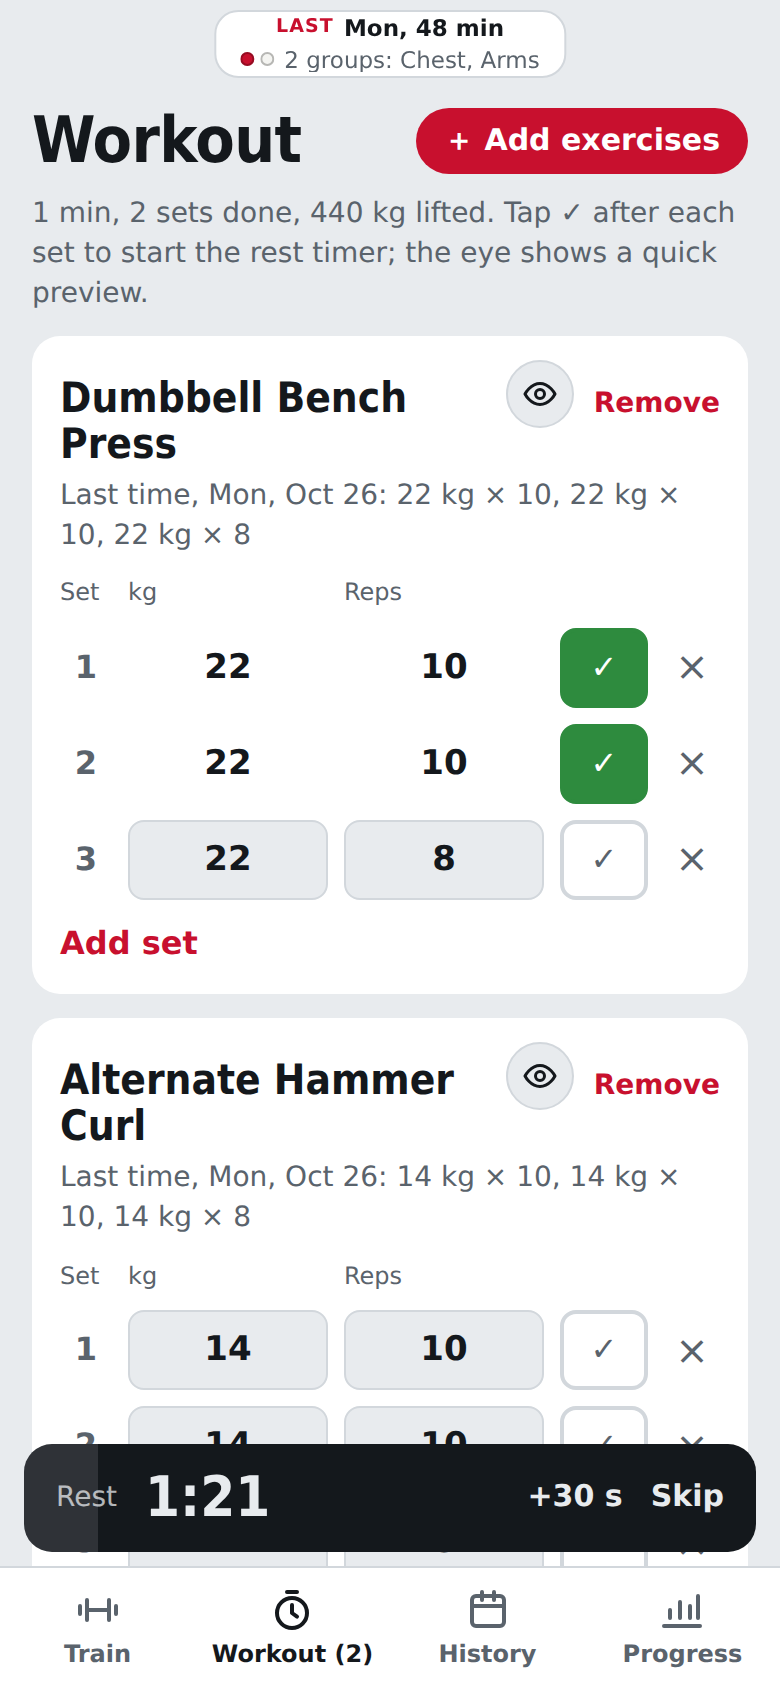
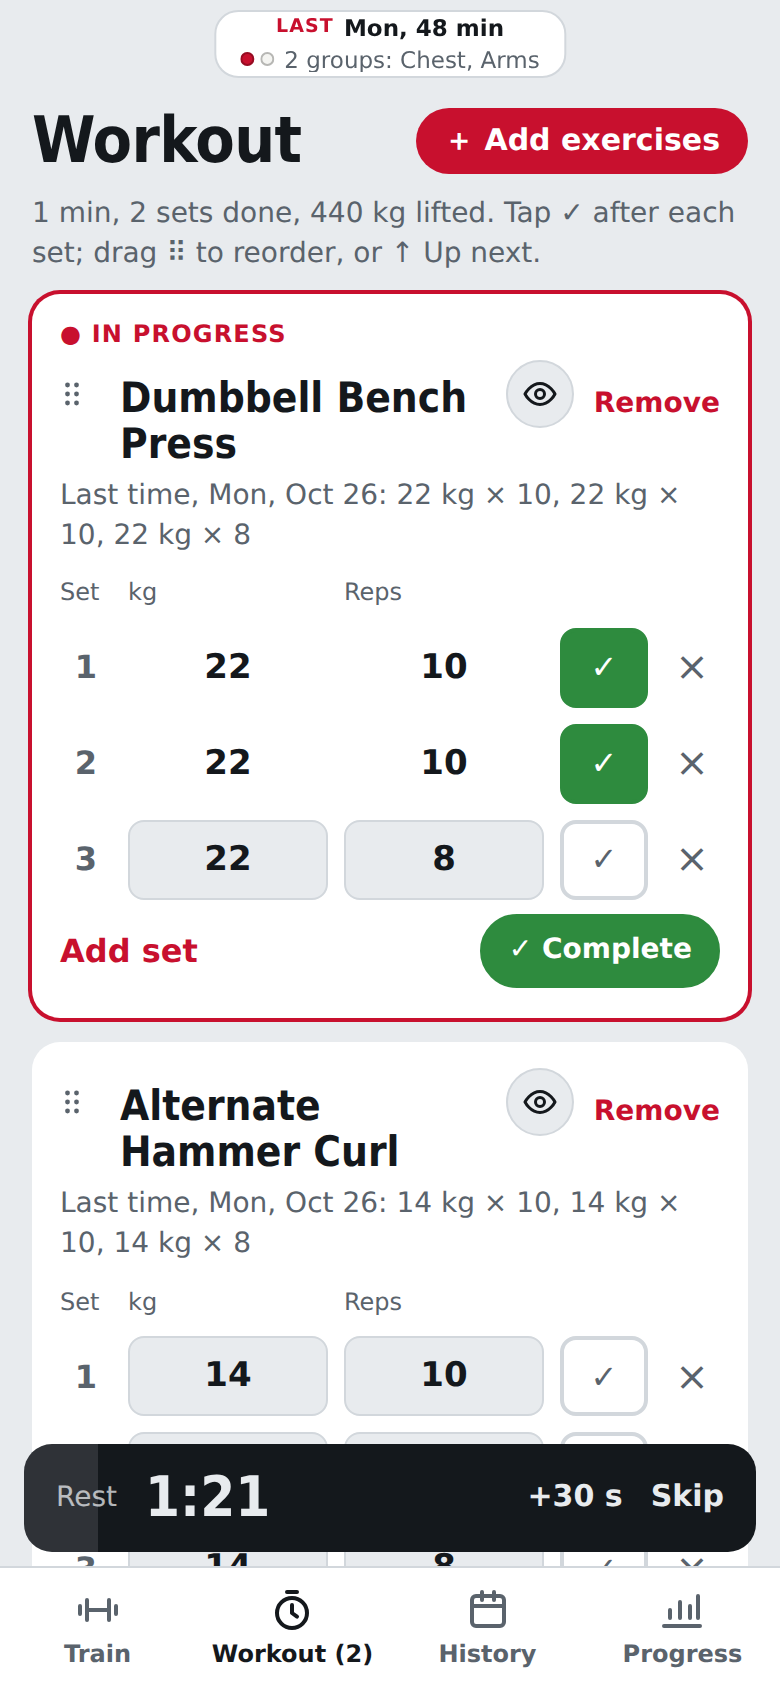
Release 1.9.0: drag-and-drop exercise order, Up next, Complete folds an exercise into one line and focuses the next

diff --git a/Go2FGym.js b/Go2FGym.js
@@ -28,7 +28,7 @@ const COACH = { autoAnalyze: true, autoStrava: true };
 
 // ---------------------------------------------------------------- version
 // This build's version. When releasing, bump it and add a matching entry to releases.json.
-const VERSION = '1.8.0';
+const VERSION = '1.9.0';
 const APP_ID = 'go2fgym';   // unique per app, never changes
 const REPO_RAW = 'https://raw.githubusercontent.com/gadominas/Go2FGym/main/';
 const SCRIPT_FILE = 'Go2FGym.js';   // the script's file name in the repository
@@ -1017,7 +1017,7 @@ function webApp() {
     imgs: {}, pending: new Set(), queue: new Set(),
     rest: { end: 0, total: 0, beeped: true },
     openSession: null, armed: null, sync: null,
-    histView: "calendar", cal: null, stravaMode: {},
+    histView: "calendar", cal: null, stravaMode: {}, focusId: null,
     consent: !!(BOOT.consent && BOOT.consent.version === CFG.disclaimerVersion),
     showDisclaimer: false,
     ai: {
@@ -2000,6 +2000,107 @@ function webApp() {
         : `<button class="primary" data-a="add" data-v="${esc(e.id)}">Add to workout</button>`}</div>`;
   }
 
+  // ------------------------------------------------ workout order, completing exercises, drag and drop
+  const firstOpen = (list) => { const i = list.findIndex((x) => !x.completed); return i < 0 ? list.length : i; };
+  // Where "Up next" puts an exercise: right after the exercises already started, or first among the open ones.
+  function upNextIndex(ei) {
+    const list = S.session.entries.filter((_, i) => i !== ei);
+    let at = -1;
+    list.forEach((x, i) => { if (!x.completed && x.sets.some((y) => y.done)) at = i; });
+    return at >= 0 ? at + 1 : firstOpen(list);
+  }
+  function moveEntry(from, to) {
+    const list = S.session.entries;
+    const [m] = list.splice(from, 1);
+    list.splice(Math.max(0, Math.min(list.length, to)), 0, m);
+  }
+  function entrySummary(en) {
+    const done = en.sets.filter((x) => x.done && x.r > 0);
+    const reps = done.reduce((n, x) => n + x.r, 0);
+    const kg = done.reduce((n, x) => n + (x.w ? x.w * x.r : 0), 0);
+    const mins = en.startedAt && en.doneAt ? Math.max(1, Math.round((en.doneAt - en.startedAt) / 60000)) : null;
+    return [kg ? `${fmtNum(kg)} ${UNIT}` : "", `${reps} reps`, mins ? `${mins} min` : ""].filter(Boolean).join(" · ");
+  }
+  function scrollToFocus() {
+    const list = S.session ? S.session.entries : [];
+    const i = list.findIndex((x) => x.id === S.focusId);
+    const el = i >= 0 ? document.querySelector(`#app .entry[data-ei="${i}"]`) : null;
+    if (!el) return;
+    const bar = document.querySelector("#app .bar");
+    const top = el.getBoundingClientRect().top + window.scrollY - (bar ? bar.getBoundingClientRect().bottom : 60) - 10;
+    window.scrollTo({ top: Math.max(0, top), behavior: "smooth" });
+  }
+  function completeEntry(ei) {
+    const list = S.session.entries;
+    const en = list[ei];
+    const now = Date.now();
+    en.sets.forEach((x) => { if (x.r > 0 && !x.done) { x.done = true; x.t = x.t || now; } });
+    if (!en.sets.some((x) => x.done)) return toast("Log at least one set first.", true);
+    en.completed = true;
+    en.doneAt = now;
+    en.startedAt = en.startedAt || Math.min(...en.sets.filter((x) => x.t).map((x) => x.t), now);
+    moveEntry(ei, firstOpen(list.filter((_, i) => i !== ei)));   // completed ones collect at the top
+    const next = list.find((x) => !x.completed && x.sets.some((y) => y.done)) || list.find((x) => !x.completed);
+    S.focusId = next ? next.id : null;
+    saveDraft();
+    render();
+    if (next) setTimeout(scrollToFocus, 30);
+    toast(next ? `${en.name} done. Next: ${next.name}` : `${en.name} done. That's every exercise!`);
+  }
+
+  // Drag and drop by the ⠿ handle (pointer events, so it works with touch and mouse).
+  let drag = null;
+  function dragTarget(center) {
+    let n = 0;
+    drag.rects.forEach((r, i) => { if (i !== drag.from && r.top + r.h / 2 < center) n++; });
+    return n;
+  }
+  document.addEventListener("pointerdown", (ev) => {
+    const h = ev.target.closest && ev.target.closest(".drag");
+    if (!h || !S.session || S.tab !== "workout") return;
+    const el = h.closest(".entry");
+    const els = [...document.querySelectorAll("#app .entry")];
+    ev.preventDefault();
+    drag = {
+      el, els, from: els.indexOf(el), startY: ev.clientY, scroll0: window.scrollY, pid: ev.pointerId, to: els.indexOf(el),
+      rects: els.map((e) => { const r = e.getBoundingClientRect(); return { top: r.top + window.scrollY, h: r.height }; }),
+    };
+    drag.gap = drag.rects.length > 1 ? Math.max(0, drag.rects[1].top - drag.rects[0].top - drag.rects[0].h) : 12;
+    el.classList.add("dragging");
+    document.body.classList.add("is-dragging");
+    try { h.setPointerCapture(ev.pointerId); } catch (e) { /* not supported */ }
+  });
+  document.addEventListener("pointermove", (ev) => {
+    if (!drag || ev.pointerId !== drag.pid) return;
+    ev.preventDefault();
+    if (ev.clientY < 110) window.scrollBy(0, -14);
+    else if (ev.clientY > window.innerHeight - 130) window.scrollBy(0, 14);
+    const dy = ev.clientY - drag.startY + (window.scrollY - drag.scroll0);
+    drag.el.style.transform = `translateY(${dy}px)`;
+    const me = drag.rects[drag.from];
+    drag.to = dragTarget(me.top + me.h / 2 + dy);
+    const shift = me.h + drag.gap;
+    drag.els.forEach((e, i) => {
+      if (i === drag.from) return;
+      const j = i < drag.from ? i : i - 1;   // index among the others
+      let y = 0;
+      if (i < drag.from && j >= drag.to) y = shift;
+      if (i > drag.from && j < drag.to) y = -shift;
+      e.style.transform = y ? `translateY(${y}px)` : "";
+    });
+  });
+  function endDrag(ev) {
+    if (!drag || (ev && ev.pointerId !== drag.pid)) return;
+    const { from, to, els } = drag;
+    els.forEach((e) => { e.style.transform = ""; e.classList.remove("dragging"); });
+    document.body.classList.remove("is-dragging");
+    drag = null;
+    if (to !== from) { moveEntry(from, to); saveDraft(); }
+    render();
+  }
+  document.addEventListener("pointerup", endDrag);
+  document.addEventListener("pointercancel", endDrag);
+
   function renderWorkout() {
     const s = S.session;
     if (!s || !s.entries.length)
@@ -2009,25 +2110,40 @@ function webApp() {
         ${S.ai.hasKey && S.history.sessions.length ? `<button class="secondary ai" data-a="build-next-h">✨ Build next workout</button>` : ""}</div>`;
     const t = volume(s.entries.map((en) => ({ sets: en.sets.filter((x) => x.done) })));
     const entries = s.entries.map((en, ei) => {
+      const grip = `<button class="drag" data-ei="${ei}" aria-label="Drag ${esc(en.name)} to reorder"><svg viewBox="0 0 24 24" aria-hidden="true"><circle cx="9" cy="6" r="1.6"/><circle cx="15" cy="6" r="1.6"/><circle cx="9" cy="12" r="1.6"/><circle cx="15" cy="12" r="1.6"/><circle cx="9" cy="18" r="1.6"/><circle cx="15" cy="18" r="1.6"/></svg></button>`;
+      if (en.completed) {
+        const sum = entrySummary(en);
+        const g = groupOf(en.id);
+        return `<section class="entry done-row" data-ei="${ei}">${grip}
+          <button class="done-main" data-a="reopen" data-v="${ei}" aria-label="${esc(en.name)}, completed. Tap to reopen.">
+          <span class="ck">✓</span><b>${esc(en.name)}</b>
+          <span class="dl-meta">${g ? `<i class="dot pl-${g.plate}" title="${g.label}"></i>` : ""}${esc(sum)}${g ? ` · ${g.label}` : ""}</span></button></section>`;
+      }
       const last = lastSets(en.id);
+      const started = en.sets.some((x) => x.done);
+      const focus = S.focusId === en.id;
+      const nextIdx = upNextIndex(ei);
       const rows = en.sets.map((x, si) => `<div class="set-row${x.done ? " done" : ""}">
           <span class="n">${si + 1}</span>
           <input data-in="w" data-ei="${ei}" data-si="${si}" inputmode="decimal" placeholder="Body" value="${x.w == null ? "" : esc(x.w)}" aria-label="Set ${si + 1} weight in ${UNIT}">
           <input data-in="r" data-ei="${ei}" data-si="${si}" inputmode="numeric" placeholder="0" value="${x.r == null ? "" : esc(x.r)}" aria-label="Set ${si + 1} reps">
           <button class="tick" data-a="done" data-v="${ei}:${si}" aria-label="${x.done ? "Mark set as not done" : "Mark set as done"}">✓</button>
           <button class="x" data-a="rm-set" data-v="${ei}:${si}" aria-label="Remove set ${si + 1}">×</button></div>`).join("");
-      return `<section class="entry">
-        <div class="entry-head"><button class="entry-name" data-a="open" data-v="${esc(en.id)}">${esc(en.name)}</button>
+      return `<section class="entry${focus ? " focus" : ""}" data-ei="${ei}">
+        ${focus || started ? `<p class="entry-status">${started ? "● In progress" : "▶ Up now"}</p>` : ""}
+        <div class="entry-head">${grip}<button class="entry-name" data-a="open" data-v="${esc(en.id)}">${esc(en.name)}</button>
         <button class="pv-btn" data-a="preview" data-v="${esc(en.id)}" aria-label="Preview ${esc(en.name)}"><svg viewBox="0 0 24 24" aria-hidden="true"><path d="M2 12s3.6-7 10-7 10 7 10 7-3.6 7-10 7S2 12 2 12z"/><circle cx="12" cy="12" r="3"/></svg></button>
         <button class="link small${S.armed === "rm" + ei ? " armed" : ""}" data-a="rm-entry" data-v="${ei}">${S.armed === "rm" + ei ? "Tap to remove" : "Remove"}</button></div>
         ${en.note ? `<p class="small coach-note">✨ ${esc(en.note)}${en.rest ? ` Rest ${en.rest} s.` : ""}</p>` : ""}
         ${last ? `<p class="muted small">Last time, ${esc(day(last.date))}: ${esc(fmtSets(last.sets))}</p>` : `<p class="muted small">First time logging this one.</p>`}
         <div class="set-row head"><span>Set</span><span>${UNIT}</span><span>Reps</span><span></span><span></span></div>
         ${rows}
-        <button class="link" data-a="add-set" data-v="${ei}">Add set</button></section>`;
+        <div class="entry-actions"><button class="link" data-a="add-set" data-v="${ei}">Add set</button>
+          ${nextIdx !== ei && !started ? `<button class="chip" data-a="up-next" data-v="${ei}">↑ Up next</button>` : ""}
+          <button class="chip complete-btn" data-a="complete" data-v="${ei}">✓ Complete</button></div></section>`;
     }).join("");
     return `<header class="bar"><h1 class="title">${esc(s.title || "Workout")}</h1><button class="hbtn" data-a="add-ex">＋ Add exercises</button></header>
-      <p class="muted small" id="totals"><span id="elapsed">${elapsed(s.start)}</span>, ${plural(t.n, "set")} done${t.v ? `, ${fmtNum(t.v)} ${UNIT} lifted` : ""}. Tap ✓ after each set to start the rest timer; the eye shows a quick preview.</p>
+      <p class="muted small" id="totals"><span id="elapsed">${elapsed(s.start)}</span>, ${plural(t.n, "set")} done${t.v ? `, ${fmtNum(t.v)} ${UNIT} lifted` : ""}${s.entries.some((x) => x.completed) ? `, ${s.entries.filter((x) => x.completed).length} of ${s.entries.length} exercises complete` : ""}. Tap ✓ after each set; drag ⠿ to reorder, or ↑ Up next.</p>
       ${entries}
       <button class="secondary" data-a="add-ex">＋ Add exercises</button>
       <button class="primary${S.armed === "finish" ? " armed" : ""}" data-a="finish">${S.armed === "finish" ? "Tap again to save" : "Finish workout"}</button>
@@ -2584,11 +2700,35 @@ function webApp() {
       const set = en.sets[si];
       if (!set.done && !(set.r > 0)) return toast("Enter reps first.", true);
       set.done = !set.done;
-      if (set.done) startRest(en.rest);
+      if (set.done) {
+        set.t = Date.now();
+        en.startedAt = en.startedAt || set.t;
+        S.focusId = en.id;
+        startRest(en.rest);
+      }
       saveDraft();
       render();
     },
     "rm-entry": (v) => arm("rm" + v, () => { S.session.entries.splice(+v, 1); saveDraft(); render(); }),
+    "up-next": (v) => {
+      const ei = +v;
+      const en = S.session.entries[ei];
+      moveEntry(ei, upNextIndex(ei));
+      S.focusId = en.id;
+      saveDraft();
+      render();
+      setTimeout(scrollToFocus, 30);
+      toast(`${en.name} is up next`);
+    },
+    complete: (v) => completeEntry(+v),
+    reopen: (v) => {
+      const en = S.session.entries[+v];
+      en.completed = false;
+      delete en.doneAt;
+      S.focusId = en.id;
+      saveDraft();
+      render();
+    },
     finish: () => arm("finish", finish),
     discard: () => arm("discard", () => {
       S.session = null;
@@ -2875,6 +3015,22 @@ p{margin:0 0 10px}
 .pv-btn{flex:none;width:34px;height:34px;border-radius:17px;display:grid;place-items:center;border:1px solid var(--line);background:var(--bg);color:var(--ink)}
 .pv-btn svg{width:18px;height:18px;fill:none;stroke:currentColor;stroke-width:2;stroke-linecap:round;stroke-linejoin:round}
 .entry-head{align-items:center}.entry-head .entry-name{flex:1;text-align:left}
+.drag{flex:none;width:28px;height:36px;margin-left:-8px;display:grid;place-items:center;color:var(--muted);touch-action:none;-webkit-user-select:none;user-select:none;cursor:grab}
+.drag svg{width:18px;height:18px;fill:currentColor}
+.entry{transition:transform .18s ease,box-shadow .18s ease}
+.entry.dragging{transition:none;position:relative;z-index:30;box-shadow:0 12px 30px rgba(0,0,0,.3)}
+body.is-dragging{-webkit-user-select:none;user-select:none}
+.entry.focus{box-shadow:0 0 0 2px var(--accent)}
+.entry-status{margin:0 0 2px;font-size:calc(12px * var(--ts));font-weight:800;color:var(--accent);text-transform:uppercase;letter-spacing:.05em}
+.entry-actions{display:flex;align-items:center;gap:8px;flex-wrap:wrap;padding:4px 0 8px}
+.entry-actions .link{margin-right:auto}
+.entry-actions .chip.complete-btn{background:var(--done);border-color:var(--done);color:#fff;font-weight:700}
+.done-row{display:flex;align-items:center;gap:4px;padding:6px 10px 6px 14px;opacity:.92}
+.done-main{flex:1;min-width:0;display:flex;align-items:center;gap:8px;padding:6px 0;text-align:left;white-space:nowrap;overflow:hidden}
+.done-main .ck{flex:none;width:22px;height:22px;border-radius:11px;background:var(--done);color:#fff;display:grid;place-items:center;font-size:13px;font-weight:800}
+.done-main b{flex:0 1 auto;max-width:32%;overflow:hidden;text-overflow:ellipsis;font-size:calc(15px * var(--ts))}
+.dl-meta{flex:1;min-width:0;display:block;white-space:nowrap;overflow:hidden;text-overflow:ellipsis;color:var(--muted);font-size:calc(13px * var(--ts))}
+.dl-meta .dot{display:inline-block;vertical-align:-1px;margin-right:4px}
 .plan-ex.pv-row{grid-template-columns:64px 1fr 34px}
 #pv{position:fixed;inset:0;z-index:55;background:rgba(0,0,0,.55);display:flex;align-items:center;justify-content:center;padding:18px}
 .pv-card{width:100%;max-width:440px;background:var(--surface);color:var(--ink);border-radius:18px;padding:14px 14px 10px;box-shadow:0 12px 40px rgba(0,0,0,.35);overflow:hidden}

diff --git a/README.md b/README.md
@@ -40,6 +40,8 @@ Gym apps assume a gym. At home you have a bench, a barbell, some dumbbells and t
 | 🖼 **See it done** | A start-to-end photo demo, numbered steps, and the muscles each exercise works. |
 | 🏠 **Made for home** | 466 exercises for bodyweight, dumbbells, barbell and resistance bands. Own kettlebells, an E-Z bar or a medicine ball? Switch them on in **Settings › Library**. |
 | ✍ **Fast logging** | Weight and reps are prefilled from last time. Change what's different, tap ✓, done. |
+| ⠿ **Your order** | Drag exercises by the ⠿ handle, or tap **↑ Up next** to put one right after the ones you've started (great for supersets). |
+| ✅ **Complete and move on** | **✓ Complete** folds an exercise into one line with kg lifted, reps, minutes and muscle group, then highlights and scrolls to the next one. |
 | ＋ **Add as you go** | **＋ Add exercises** in the workout header opens the list for that workout's muscles; **✓ Workout** takes you straight back. |
 | 👁 **Quick preview** | The eye on each exercise in your workout shows it moving in a pop-up, with **Open exercise** for the full page. It closes itself after 10 seconds. |
 | ⏱ **Rest timer** | Ticking a set starts a countdown with a beep (90 s, adjustable in Settings). Add 30 s or skip. |
@@ -97,6 +99,7 @@ Gym apps assume a gym. At home you have a bench, a barbell, some dumbbells and t
 
 <p align="center">
   <img src="docs/screenshots/04-steps-and-progress.png" width="180" alt="Steps, last time and progress chart">
+  <img src="docs/screenshots/18-complete-and-reorder.png" width="180" alt="Completed exercise folded into one line, next exercise highlighted">
 </p>
 
 ## Setting up the AI coach
@@ -131,6 +134,8 @@ Every version is listed in the **[changelog](CHANGELOG.md)**. The version you ha
 | See how it's done | Tap an exercise. **Start**, **Play** and **End** control the demo. |
 | Add to today's workout | Tap **+** in the list, or **Add to workout** on the exercise |
 | Add more during a workout | **＋ Add exercises** at the top of the Workout tab, tap **+**, then **✓ Workout** at the top to go back |
+| Change the order of exercises | Drag the **⠿** handle, or tap **↑ Up next** on the one you want to do next |
+| Finish an exercise | **✓ Complete**; tap its one-line summary to reopen it |
 | Quickly see how an exercise is done | Tap the **eye** next to it in your workout or a built plan; **Open exercise** for the full page |
 | Log a set | Check weight and reps, then tap **✓**. Leave weight empty for bodyweight. |
 | Add or remove a set | **Add set** copies the previous one; **×** removes a set |

diff --git a/CHANGELOG.md b/CHANGELOG.md
@@ -2,6 +2,21 @@
 
 All notable changes to Go2FGym. Generated from `releases.json`; edit that file, not this one.
 
+## 1.9.0 (2026-10-29): Train in your own order
+
+- ⠿ **Drag to reorder**: Hold the ⠿ handle on any exercise and drag it where you want it.
+- ↑ **Up next**: One tap moves an exercise right after the ones you've started, ideal for supersets.
+- ✅ **Complete and move on**: Complete folds an exercise into one line with kg, reps and time, and jumps to the next.
+
+**Changes**
+
+- Drag and drop exercises in a workout by the ⠿ handle, with touch or mouse; the list scrolls while you drag
+- ↑ Up next moves an exercise right after the exercises in progress, or to the top of the open ones
+- ✓ Complete marks the remaining logged sets done, folds the exercise into one line (muscle group, kg lifted, reps, minutes spent) and moves it to the completed stack at the top
+- The next exercise is highlighted (In progress or Up now) and scrolled into view
+- Tap a completed line to reopen it
+- Each ticked set records its time, so time spent per exercise is shown
+
 ## 1.8.0 (2026-10-29): Easier to get around
 
 - ＋ **Add exercises anytime**: ＋ Add exercises in the workout header opens the list for that workout's muscles.
